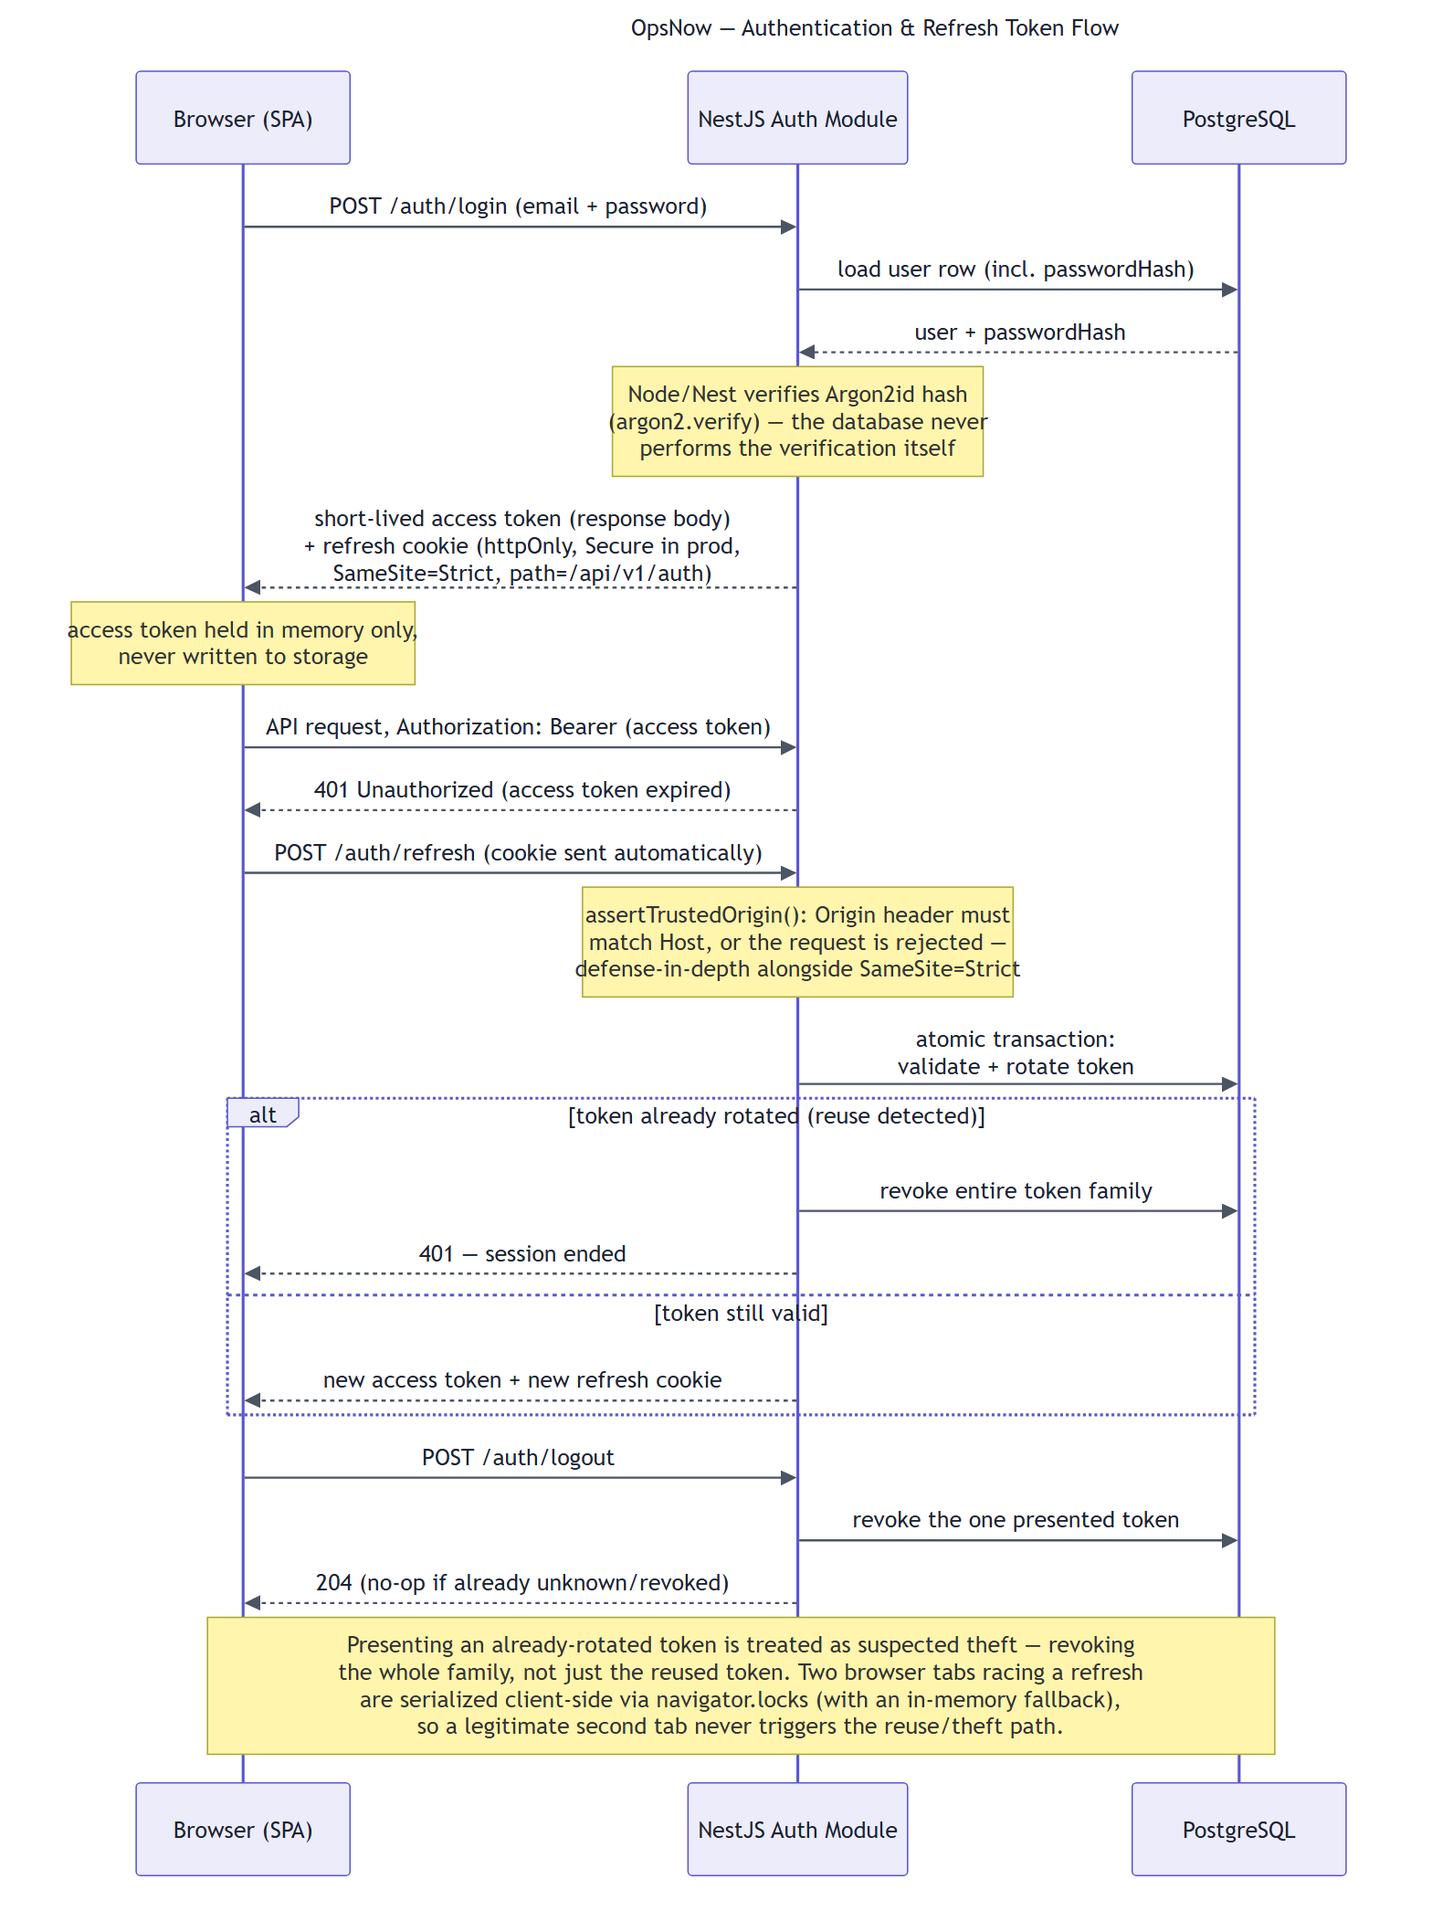
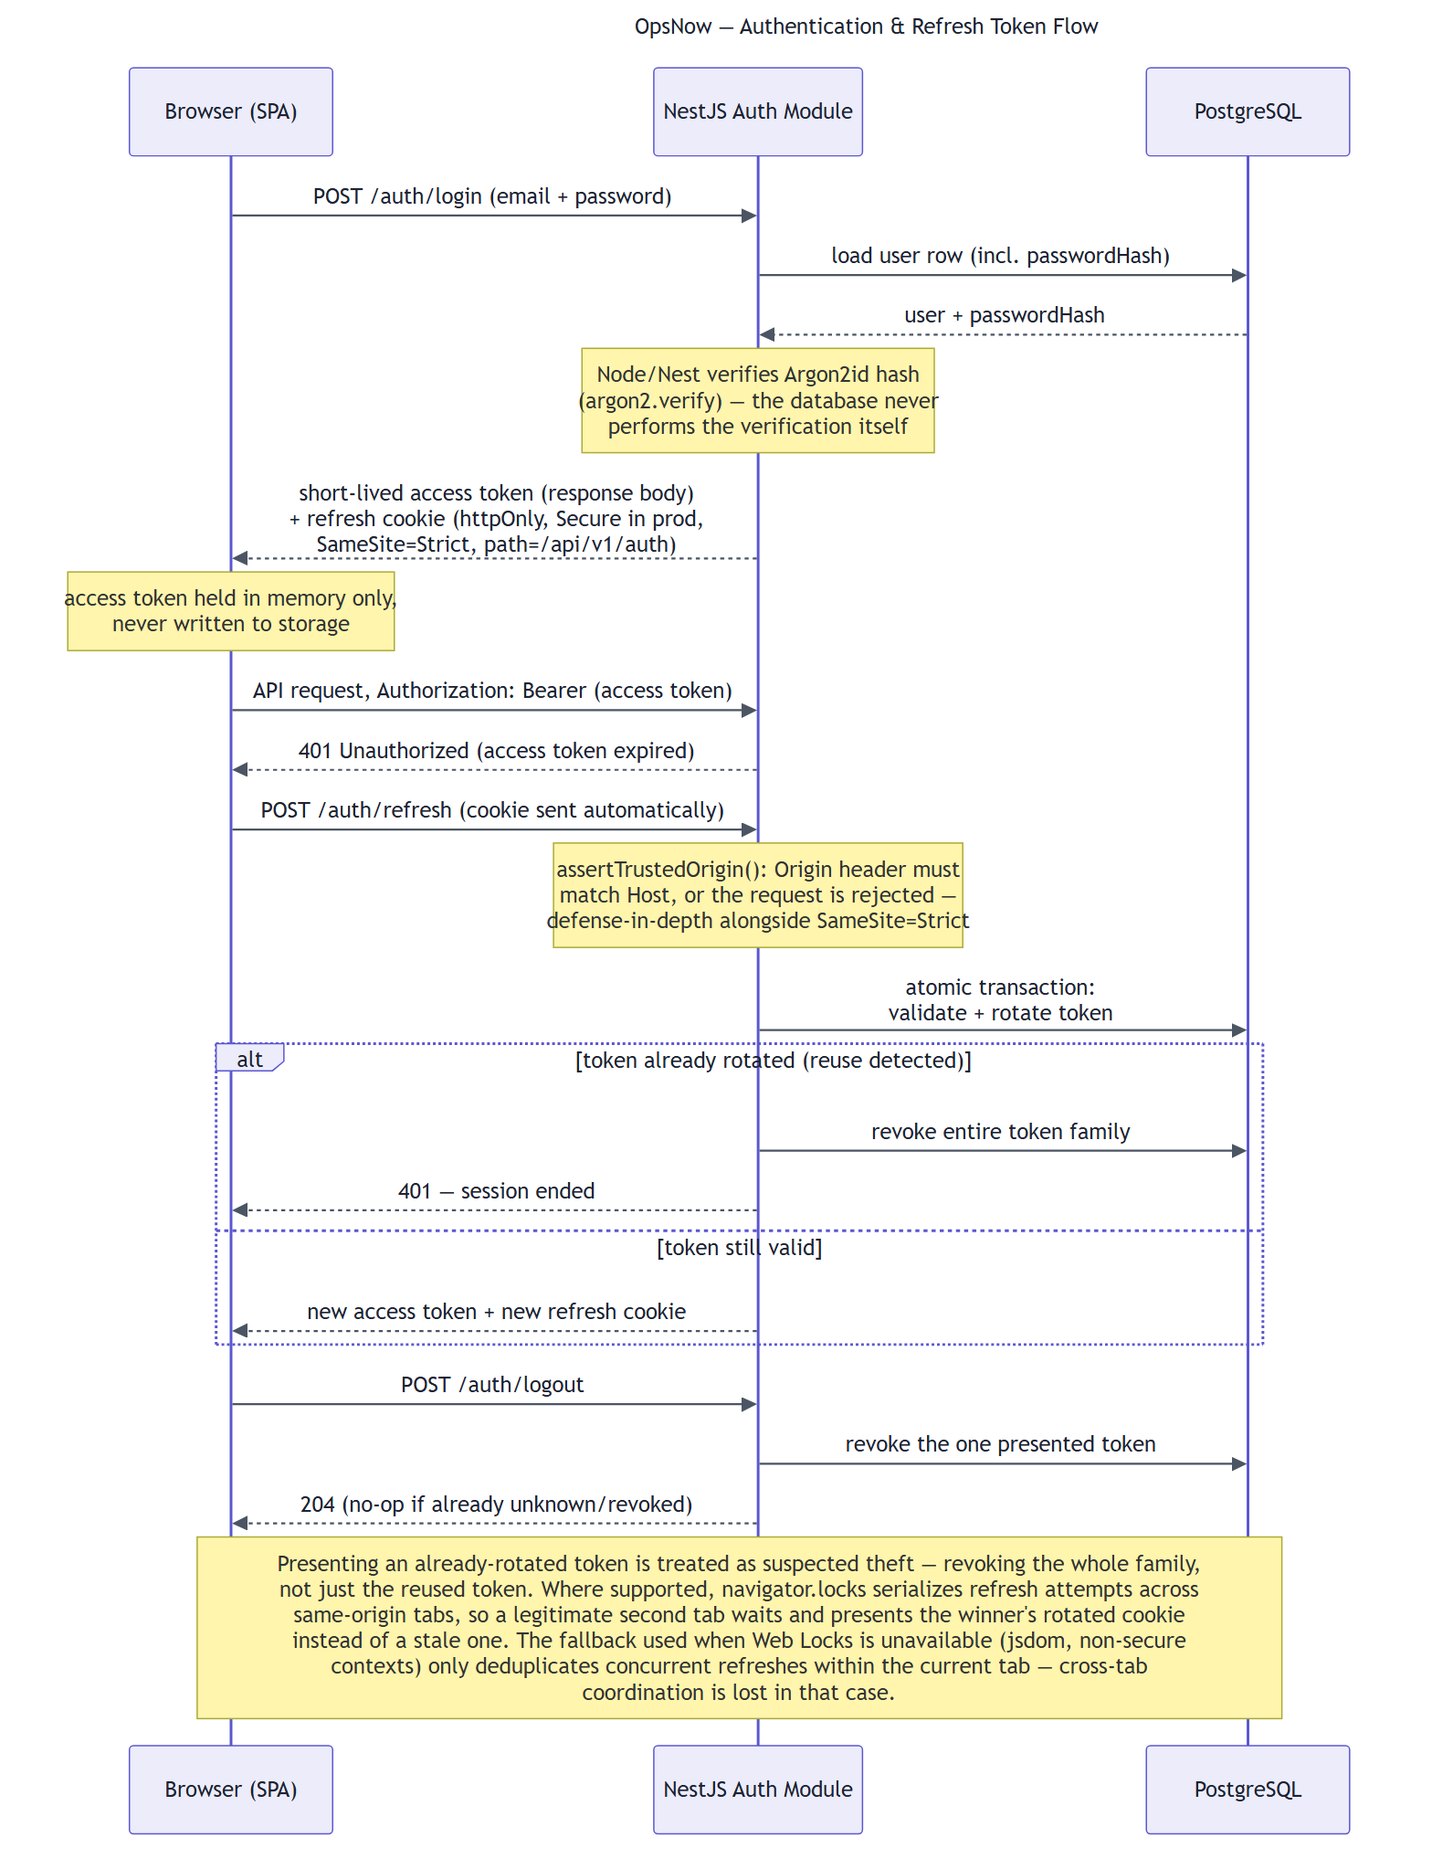
docs: finalize OpsNow diagram corrections
Targeted follow-up pass verifying five suspected issues against the
current repo; all five were confirmed and fixed.

- 11-ticket-update-concurrency-flow: the diagram (and the matching
  prose) showed getVisibleTicketOrThrow/ownership checks running
  before ValidationPipe. Verified NestJS's actual order (guards ->
  global pipes -> controller/service) and corrected it. Also verified
  ticket mutations are four distinct routes (PATCH /tickets/:id,
  /:id/assignment, /:id/status, /:id/priority), not one PATCH
  /tickets/:id as previously drawn - reframed as "Ticket Mutation &
  Concurrency Flow" showing all four converging on one pattern, with
  RolesGuard shown as part of the authorization boundary (it blocks
  /assignment and /priority before validation even runs). Rebuilt as
  a wide flowchart: 4300px tall -> 711px tall, same technical content.
- Primary-key wording corrected: bridge tables (TicketAsset,
  TicketKnowledgeArticle) use composite UUID-FK primary keys, not a
  UUID surrogate id - "every primary key is a UUID" contradicted the
  diagram's own bridge-table description two paragraphs earlier.
- CI wording corrected: "the same checks a developer runs locally"
  overstated it - the Docker/container-image job was never runnable
  locally (Docker isn't installed on this machine), only the
  frontend/backend/dependency-audit jobs mirror local checks.
- navigator.locks wording softened after reading the actual fallback
[…]

Changed region(s): [[0.0312, 0.0, 0.9062, 0.9853], [0.7812, 0.9238, 0.9062, 0.9853]]

diff --git a/Diagrams/00-Diagram-Summaries.md b/Diagrams/00-Diagram-Summaries.md
@@ -48,7 +48,7 @@ The ERD for the tables that do the work of an IT service desk: `USER`, `TICKET`,
 - **The `TICKET`↔`ASSET` many-to-many relationship is a real physical bridge table, `TicketAsset` (`ticket_assets`, composite primary key `[ticketId, assetId]`, plus `linkedAt`/`linkedById`) — it's collapsed to a single labeled edge on the diagram for readability ("linked via TICKET_ASSET"), not omitted or hidden.**
 
 ### Design details worth noting
-Every primary key is a UUID (`Ticket.id` included) generated by Prisma's `uuid()` default. `Ticket.ticketNumber` is a **separate, independent field** — a real database-sequence auto-incrementing integer — that exists purely so a person can say "ticket #4821" out loud; it was never a primary-key candidate, so it's more accurate to describe the design as "a UUID primary key, plus a separate unique human-readable `ticketNumber`" than as "the one exception to UUID primary keys." Several fields carry a `deletedAt` timestamp instead of being hard-deleted (`User`, `Ticket`, `TicketComment`, `Asset`) so a "removed" record still makes sense in historical reports and audit trails; `TicketHistory`, `TicketCategory`, `SlaPolicy`, `TicketSla`, `AssetType`, `AssetAssignment`, and `TicketAsset` are hard-delete-only (no `deletedAt` column exists for them).
+Entity identifiers use UUID primary keys (`Ticket.id` included, via Prisma's `uuid()` default) — with one category of exception, not zero: the many-to-many bridge tables (`TicketAsset` here, `TicketKnowledgeArticle` in diagram 3) have no surrogate `id` at all and instead use a **composite primary key made of their two UUID foreign keys** (`@@id([ticketId, assetId])`). `Ticket.ticketNumber` is a separate concern again — a real database-sequence auto-incrementing integer that exists purely so a person can say "ticket #4821" out loud; it was never a primary-key candidate at all, so the precise description is "UUID primary keys for entities, composite UUID-FK primary keys for bridge tables, plus a separate unique human-readable `ticketNumber` on `Ticket`." Several fields carry a `deletedAt` timestamp instead of being hard-deleted (`User`, `Ticket`, `TicketComment`, `Asset`) so a "removed" record still makes sense in historical reports and audit trails; `TicketHistory`, `TicketCategory`, `SlaPolicy`, `TicketSla`, `AssetType`, `AssetAssignment`, and `TicketAsset` are hard-delete-only (no `deletedAt` column exists for them).
 
 ### Key takeaway
 Tickets and assets are built on ordinary **mutable current-state fields** (`status`, `currentAssigneeId`, etc.) paired with a **separate append-only ledger** (`TicketHistory`, `AssetAssignment`) that preserves how they got there — not on event-sourcing where current state is derived by replaying history.
@@ -88,7 +88,7 @@ A non-technical summary: OpsNow at the center, fanning out to its seven user-fac
 - **Knowledge Base** — searchable self-service articles, full-text search, feedback.
 - **Dashboard & Analytics** — ticket, SLA, category and agent performance metrics computed from live data.
 - **Audit Log** — an append-only record of every sensitive action.
-- **AI Assistant** — optional, staff-only, advisory: it can draft a triage suggestion, a reply, or a resolution summary, but nothing it produces changes a ticket by itself — a suggestion is applied only by a second, explicit `PATCH /tickets/:id` call that gets the same validation, concurrency check and history write as a change a person typed.
+- **AI Assistant** — optional, staff-only, advisory: it can draft a triage suggestion, a reply, or a resolution summary, but nothing it produces changes a ticket by itself — a suggestion is applied only by a second, explicit ticket-mutation call (see diagram 11) that gets the same validation, concurrency check and history write as a change a person typed.
 
 ### Key takeaway
 "Four roles, one system" signals this isn't seven disconnected tools, but one dataset viewed through a role-appropriate lens — detailed in diagram 7.
@@ -135,8 +135,8 @@ The login step is drawn as two messages rather than one: the backend loads the u
 ### The rotation-and-reuse mechanism
 The refresh endpoint wraps validate-then-rotate in one atomic database transaction, and additionally checks that the request's `Origin` header matches its `Host` before touching the database (`assertTrustedOrigin()`) — a defense-in-depth check on top of `SameSite=Strict`. If an already-rotated token is presented again, the system revokes the user's **entire token family**, not just the reused token. A legitimate user simply logs in again; an attacker who stole a token loses it the moment the real user's browser uses its own (rotated) copy first. Logout revokes only the one presented token, and is a silent no-op if the cookie is already unknown or revoked.
 
-### The cross-tab race, confirmed real
-"Two tabs racing a refresh is handled by client-side locking" is not a hypothetical in the code: `frontend/src/lib/api/client.ts` genuinely uses `navigator.locks` (with an in-memory fallback for browsers without it, and its own dedicated tests) to serialize refresh attempts across tabs, so a second legitimate tab never triggers the reuse/theft path.
+### The cross-tab race — real, but the guarantee is conditional
+"Two tabs racing a refresh is handled by client-side locking" is not a hypothetical in the code: `frontend/src/lib/api/client.ts` genuinely uses `navigator.locks` (Web Locks API), with its own dedicated tests, to serialize refresh attempts. But the strength of that guarantee depends on browser support, and the code's own comment says so directly: **where `navigator.locks` is available, it serializes refresh attempts across same-origin tabs**, so a legitimate second tab waits and presents the winner's freshly-rotated cookie rather than a stale one. Where it's unavailable (`jsdom` in tests, or any non-secure context) the code falls back to a plain in-tab single-flight promise (`refreshInFlight`) — that fallback **only deduplicates concurrent refresh calls within the current tab's JS instance**; it provides no coordination across tabs at all. So "a second tab never triggers the reuse/theft path" is true when Web Locks is available, and not a guarantee the fallback path provides.
 
 ### Key takeaway
 Nothing here is exotic cryptography — it's ordinary JWT-plus-refresh-cookie design, with each failure mode (XSS token theft, replay, concurrent-tab races, CSRF-style origin spoofing) closed by a specific, verifiable mechanism.
@@ -207,7 +207,7 @@ Five independent GitHub Actions jobs triggered on every push — Frontend, Backe
 All five jobs passing is **the project's release/merge acceptance criterion** — GitHub branch-protection status was not independently verified as part of this review, so this is stated as the project's own bar rather than as a claim about a technically enforced merge gate. The pipeline's first pushes did fail and get fixed in a short debugging window on 2026-09-22, but **that window was not nginx-only**: one of the fix commits (`7e8346f`) bundles a genuine frontend bug fix — a test `QueryClient` that didn't match production's `refetchOnWindowFocus: false`, causing an extra network request via React Query's shared focus-manager in jsdom — together with nginx error-surfacing, and a separate commit (`3488d0f`) resolves the actual nginx issue (the standalone `nginx -t` check couldn't resolve the `backend` upstream hostname via DNS, fixed with `--add-host`).
 
 ### Key takeaway
-This pipeline is the same checks a developer is expected to run locally before committing, re-run automatically on every push against a real, ephemeral environment rather than a mock one.
+The CI pipeline independently repeats the application's local quality checks (typecheck, lint, unit/e2e tests, build) against a real, ephemeral environment rather than a mock one, and adds container/image validation on top that has never been possible to run locally on this development machine, since Docker itself isn't installed here (see diagram 10) — the Frontend, Backend and Dependency Audit jobs mirror what a developer can run locally; the Docker job does not.
 
 ---
 
@@ -234,29 +234,38 @@ Environment variable values are omitted deliberately (only names/purposes are sh
 
 ---
 
-## 11. Ticket Update & Concurrency Flow
+## 11. Ticket Mutation & Concurrency Flow
 **File:** `11-ticket-update-concurrency-flow.png` / `11-ticket-update-concurrency-flow.mmd`
 
 ### Purpose
-Diagram 5 shows *which* status transitions are legal; this one shows the full engineering path a `PATCH /tickets/:id` request actually takes, and the guarantees around it — authorization, validation, optimistic concurrency, atomic history, and conditional SLA integration.
+Diagram 5 shows *which* status transitions are legal; this one shows the full engineering path a ticket-mutation request actually takes, and the guarantees around it — authorization, validation, optimistic concurrency, atomic history, and conditional SLA integration. It's drawn wide (left-to-right), not tall, specifically so it reads on GitHub without heavy vertical scrolling.
+
+### Four endpoints, one pattern — not one endpoint
+Ticket mutations are **not** all `PATCH /tickets/:id`. There are four distinct routes, each backed by its own service method: `PATCH /tickets/:id` (field edits — subject/description/category; `TicketsController.update`), `PATCH /tickets/:id/assignment` (`assign`, `@Roles(STAFF)`), `PATCH /tickets/:id/status` (`updateStatus`, no route-level role restriction), and `PATCH /tickets/:id/priority` (`updatePriority`, `@Roles(STAFF)`). The diagram shows all four converging on the same underlying engineering pattern rather than picking one and implying it's the only mutation path.
+
+### Request-processing order — corrected
+Every route passes through the same global stages **before** any service code runs, in this order: `JwtAuthGuard` (401 on failure) → `RolesGuard` (403 at the route level, **before validation or any DB read**, but only for the two routes that declare `@Roles(STAFF)` — `/assignment` and `/priority`; the other two have no route-level role restriction at all) → the global `ValidationPipe` (400 on a malformed body) — validation is a framework-level concern that always runs ahead of the controller/service, never after a database read. Only once all of that has passed does `TicketsService` do anything: `getVisibleTicketOrThrow` (404 if the ticket doesn't exist or isn't visible to this caller) → an endpoint-specific business-rule/ownership check → the CAS `updateMany` → the transaction's conditional side effects → commit → the post-commit audit write.
+
+### The business-rule check is genuinely endpoint-specific
+The diagram folds this into one decision box with a side note, because the real order and content differs by endpoint rather than following one canonical sequence:
+- **Field edit** (`update`) — a non-staff requester is blocked (403) once the ticket's status has left `New`.
+- **Status change** (`updateStatus` → `applyStatusTransition`) — checked in this exact order: a no-op ("already in that status") throws `400` first, then the transition-matrix check from diagram 5 throws `403` if the target status isn't reachable from the current one, then — only if neither of those fired — a staff-or-reopening check throws `403` for a non-staff caller attempting anything other than the one reopen transition.
+- **Assignment / priority** (`assign`, `updatePriority`) — `RolesGuard` already restricts these routes to staff before validation ever runs (see above); the service *additionally* re-checks staff status as defense-in-depth, ahead of its own `getVisibleTicketOrThrow` call — a real ordering difference from the other two endpoints, but one that's unobservable from outside the process, since a non-staff caller is already rejected by the guard before reaching any of this.
 
 ### The concurrency mechanism — not a version column
 There is **no `version` field on `Ticket`**. Instead, each mutating operation uses a **targeted compare-and-swap predicate on the specific field it just read**, inside a `ticket.updateMany` call also scoped by `ticketVisibilityWhere(user)`:
-- plain field edits (subject/description/category) — CAS on `updatedAt`
+- plain field edits — CAS on `updatedAt`
 - assignment — CAS on `assigneeId`
 - priority change — CAS on `priority`
 - a status transition — CAS on `status`
 
-If the predicate matches zero rows (`updateMany` count ≠ 1), someone else changed that exact field first — the request throws a `ConflictException` (`409`, "Ticket was modified by another request; reload and retry") rather than silently overwriting.
-
-### The full flow
-`JwtAuthGuard` (401 on failure) → `getVisibleTicketOrThrow` — an RBAC- and row-level-visibility-scoped read (404 if the ticket doesn't exist or isn't visible to this caller) → a role/ownership check (403 if it fails — e.g. a non-staff requester acting outside their one allowed self-service transition) → request validation (400 on a malformed body) → for a status change, a check against the transition matrix from diagram 5 (**403**, not 400, for a matrix-disallowed transition; 400 specifically for the no-op "already in that status" case) → the CAS `updateMany` described above, all inside one Prisma `$transaction` → a conditional SLA side effect (**only** for operations that actually affect a clock: entering/leaving `OnHold`, resolution, reopen, or a priority change — a plain subject/description edit triggers none) → a `TicketHistory` row write, in the **same transaction and commit** as the ticket update itself (history is not written outside the atomic boundary) → commit. `AuditService.record(...)` is called **after** the transaction commits, deliberately **outside** it, specifically because `AuditService` never throws — a failed audit write can't fail or silently undo an already-committed ticket update.
+If the predicate matches zero rows (`updateMany` count ≠ 1), someone else changed that exact field first — the request throws a `ConflictException` (`409`, "Ticket was modified by another request; reload and retry") rather than silently overwriting. A conditional SLA side effect follows **only** for operations that actually affect a clock (entering/leaving `OnHold`, resolution, reopen, or a priority change — a plain subject/description edit triggers none), then a `TicketHistory` row write, in the **same transaction and commit** as the ticket update itself. `AuditService.record(...)` is called **after** the transaction commits, deliberately **outside** it, specifically because `AuditService` never throws — a failed audit write can't fail or silently undo an already-committed ticket update.
 
 ### Failure branches, exactly as implemented
-`401` unauthenticated · `404` ticket not found or out of visibility scope · `403` failed ownership/role check **or** a transition the matrix disallows · `400` malformed request body **or** a no-op status change · `409` CAS conflict. Underlying Prisma errors are mapped rather than left raw: `P2003` (foreign-key violation) → `400`, `P2025` (record not found) → `404`. There is no separate generic "transaction failure" branch beyond these.
+`401` unauthenticated · `403` a staff-only route blocked at the guard, **or** a failed ownership/business-rule check, **or** a transition the matrix disallows · `404` ticket not found or out of visibility scope · `400` malformed request body **or** a no-op status change · `409` CAS conflict. Underlying Prisma errors are mapped rather than left raw: `P2003` (foreign-key violation) → `400`, `P2025` (record not found) → `404`. There is no separate generic "transaction failure" branch beyond these.
 
 ### Simplifications
-The diagram folds "role/ownership check" and "transition-matrix check" into two decision points for readability; in the source they're evaluated as part of the same service method rather than as physically separate middleware stages.
+The business-rule/ownership check is drawn as one decision box rather than four separate per-endpoint diagrams — its real, endpoint-specific order is spelled out in the note above and on the diagram itself rather than implied by a single arrow. SLA-hook detail (exactly which of `OnHold` pause/resume, resolution, or reopen fires) is summarized rather than enumerated per branch — see diagram 8 for that detail.
 
 ---
 
